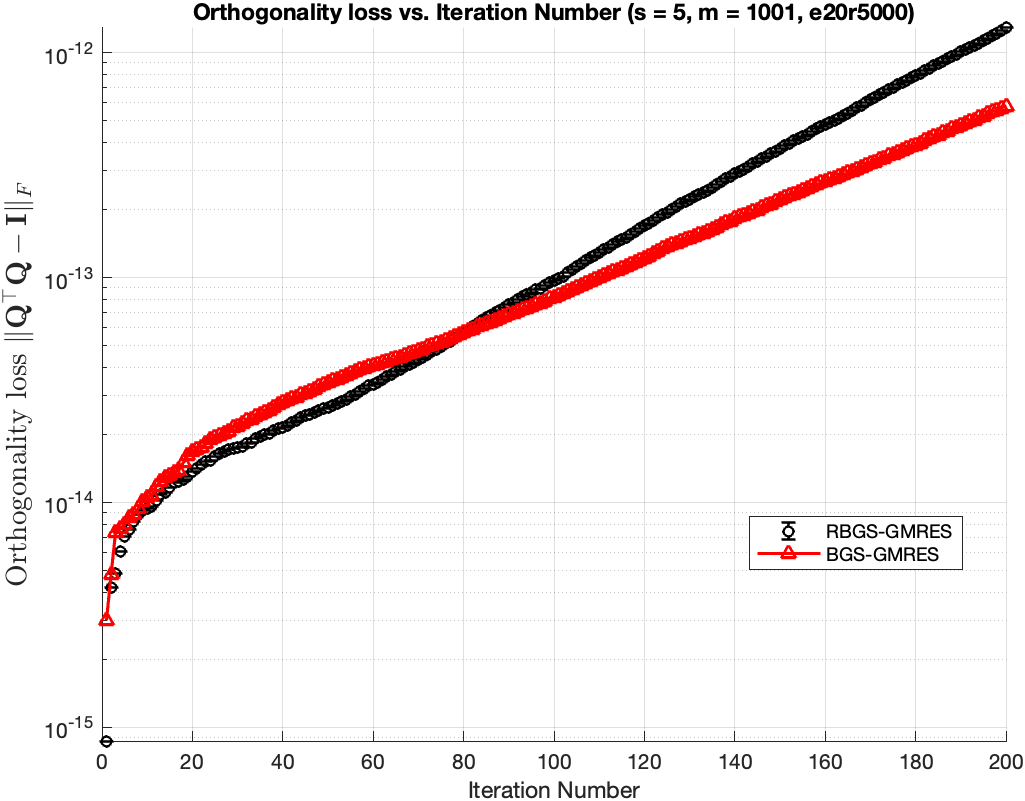
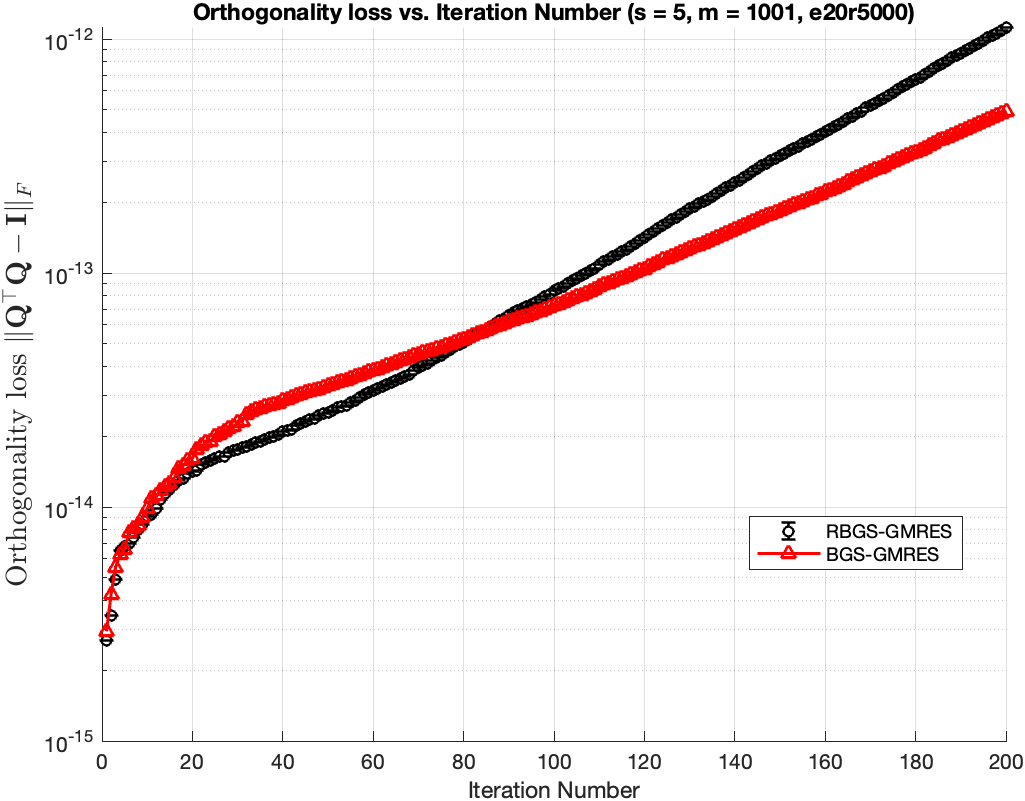
update

diff --git a/main.m b/main.m
@@ -12,7 +12,7 @@ A = @(x) matrix * x;
 b = randn(n,1);
 b = b / norm(b);
 %step size
-ss = [10];
+ss = [5];
 m = 1001; 
 d = 2 * m;
 ctol = 1e-16;
